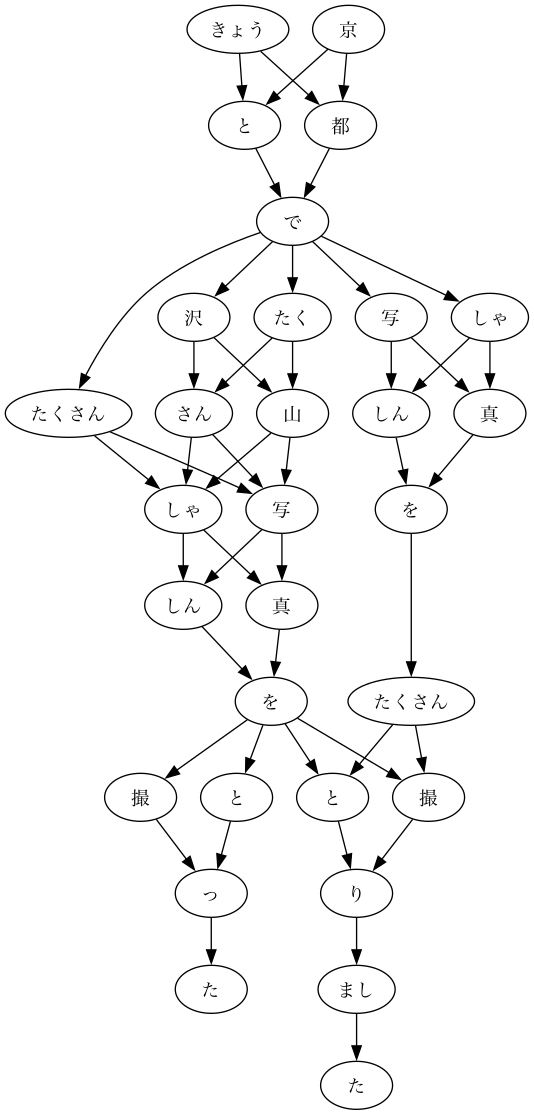
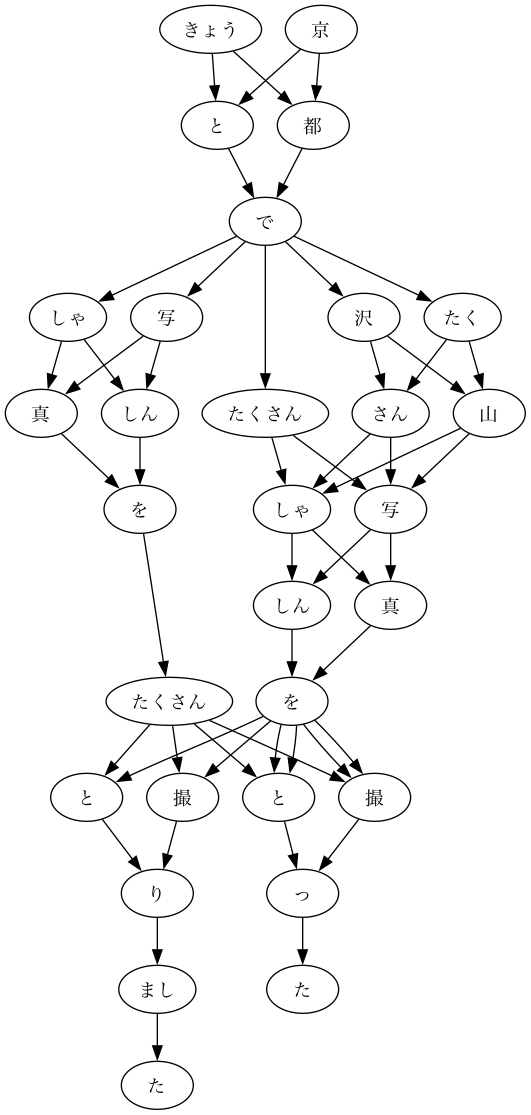
wip, but sibling graph construction fix in

diff --git a/index.ts b/index.ts
@@ -52,7 +52,6 @@ function parseSynonyms(
   const entryNumber = rawRubies.flatMap((str, idx) =>
     Array.from({ length: str.length }, () => idx)
   );
-
   for (const [source, dest] of Object.entries(sentence.synonyms ?? {})) {
     const starts = findOccurrences(rawRuby, source);
     if (starts.length === 0) {
@@ -67,10 +66,10 @@ function parseSynonyms(
       const endFuriganaIdx = entryNumber[end];
       // these are furigana indexes
 
-      let previousKeys: string[] =
-        startFuriganaIdx > 0
-          ? mainlineKeys(sentence, startFuriganaIdx - 1)
-          : [];
+      let previousKeys: string[] = mainlineKeys(
+        sentence,
+        startFuriganaIdx
+      ).flatMap((key) => keyToPrev[key] ?? []);
       for (const [fidx, f] of dest.entries()) {
         previousKeys = insertFurigana({
           f,
@@ -80,6 +79,7 @@ function parseSynonyms(
           keyToPrev,
         });
       }
+      // outflow: mainline
       if (sentence.furigana[endFuriganaIdx + 1]) {
         for (const nextKey of mainlineKeys(sentence, endFuriganaIdx + 1)) {
           for (const prevKey of previousKeys) {
@@ -87,9 +87,25 @@ function parseSynonyms(
           }
         }
       }
+      // outflow: others
+      const mainlineOutflows = mainlineKeys(sentence, endFuriganaIdx);
+      const allOutflows = Object.entries(keyToPrev)
+        .filter(([, parents]) =>
+          mainlineOutflows.some((targetParent) =>
+            parents.includes(targetParent)
+          )
+        )
+        .map(([key]) => key);
+
+      for (const nextKey of allOutflows) {
+        for (const prevKey of previousKeys) {
+          insert(keyToPrev, nextKey, prevKey, DEDUPE_PLEASE);
+        }
+      }
     }
   }
 }
+const DEDUPE_PLEASE = true;
 
 function mainlineKeys(sentence: Sentence, currentIndex: number): string[] {
   if (currentIndex < 0 || currentIndex >= sentence.furigana.length) {

diff --git a/tests/graph.ts b/tests/graph.ts
@@ -1,7 +1,8 @@
 import test from "tape";
-import { type Sentence } from "../interfaces";
+import type { Chunk, Sentence } from "../interfaces";
 import { sentenceToGraph } from "..";
-import { findGreedyPath } from "../graphSearch";
+import { chunkInput, findGreedyPath } from "../graphSearch";
+import { demo } from "../demo";
 
 test("greedy search", (t) => {
   const fake: Sentence = {
@@ -41,5 +42,29 @@ test("hiragana normalization: return is same form as input even during backgroun
   const graph = sentenceToGraph(sentence);
   const input = "らーめんがタべたい";
   t.deepEqual(findGreedyPath(input, graph), [input]);
+  t.end();
+});
+
+test("chunking", (t) => {
+  const graph = sentenceToGraph(demo);
+
+  const arrEqual = (a: string[], b: string[]) =>
+    t.deepEqual(a.sort(), b.sort());
+  const allStatusOk = (v: Chunk[]) => v.every((o) => o.status === "ok");
+
+  let chunks = chunkInput("しゃしんたくさん", graph);
+  allStatusOk(chunks);
+  arrEqual(
+    chunks.map((o) => o.text),
+    ["しゃしん", "たくさん"]
+  );
+
+  chunks = chunkInput("しゃしんたくさんとった", graph);
+  allStatusOk(chunks);
+  arrEqual(
+    chunks.map((o) => o.text),
+    ["しゃしん", "たくさん", "とった"]
+  );
+
   t.end();
 });

diff --git a/demo.ts b/demo.ts
@@ -37,7 +37,7 @@ ${links.join("\n")}
 }`.replace(/\//g, "_");
 }
 
-const demo: Sentence = {
+export const demo: Sentence = {
   furigana: [
     [
       { ruby: "京", rt: "きょう" },
@@ -82,7 +82,31 @@ $ dot -Tpng ${outfile} > ${outfile}.png`);
 }
 
 if (module === require.main) {
-  sentenceToDot(demo, "demo.dot");
+  // sentenceToDot(demo, "demo.dot");
   const graph = sentenceToGraph(demo);
-  console.log(chunkInput("しゃしん田たくさんとった", graph));
+  // console.log(chunkInput("しゃしん田たくさんとった", graph));
+  console.log(chunkInput("たくさんとった", graph));
+
+  function aFollowsB(a: string, b: string): boolean {
+    return graph.textToKeys[a]
+      .flatMap((o) => graph.keyToNext[o])
+      .map((key) => graph.keyToText[key])
+      .includes(b);
+  }
+
+  console.log(
+    aFollowsB("たくさん", "と"),
+    aFollowsB("と", "っ"),
+    aFollowsB("っ", "た")
+  );
+
+  // sentenceToDot(
+  //   {
+  //     english: [""],
+  //     citation: "",
+  //     furigana: "abcd".split(""),
+  //     synonyms: { bc: "xyz".split(""), d: ["e"], c: ["CcC"], a: ["AAA"] },
+  //   },
+  //   "fake.dot"
+  // );
 }

diff --git a/graphSearch.ts b/graphSearch.ts
@@ -1,4 +1,4 @@
-import { type Graph } from "./interfaces";
+import { Chunk, type Graph } from "./interfaces";
 import { kata2hira } from "./kana";
 import { longest, max } from "./utils";
 
@@ -36,7 +36,6 @@ function followGreedy(input: string, startKey: string, graph: Graph): string {
     keyToNext[startKey]?.filter((key) =>
       inputHiragana.startsWith(headHiragana + kata2hira(keyToText[key]))
     ) ?? [];
-
   const headAsInput = input.slice(0, head.length);
 
   // base case (2) end of graph
@@ -46,8 +45,8 @@ function followGreedy(input: string, startKey: string, graph: Graph): string {
   return headAsInput + followGreedy(input.slice(head.length), bestKey, graph);
 }
 
-export function chunkInput(input: string, graph: Graph) {
-  const chunks: { text: string; status: "unknown" | "ok" }[] = [];
+export function chunkInput(input: string, graph: Graph): Chunk[] {
+  const chunks: Chunk[] = [];
   let rest = input;
   while (rest) {
     const hits = findGreedyPath(rest, graph);

diff --git a/tests/basic.ts b/tests/basic.ts
@@ -131,3 +131,19 @@ test("multiply-occurring synonym ok", (t) => {
 
   t.end();
 });
+
+test("multiple synonyms should link to each other", (t) => {
+  const sentence: Sentence = {
+    ...superfluous,
+    furigana: "abcd".split(""),
+    synonyms: { bc: "xyz".split(""), c: ["1"], d: ["e"] },
+  };
+  const { textToKeys, keyToPrev, keyToText } = sentenceToGraph(sentence);
+
+  const eParents = textToKeys.e
+    .flatMap((e) => keyToPrev[e].map((key) => keyToText[key]))
+    .sort();
+  t.deepEqual(eParents, ["1", "c", "z"].sort());
+
+  t.end();
+});

diff --git a/utils.ts b/utils.ts
@@ -1,10 +1,17 @@
 import type { Tree } from "./interfaces";
 
-export function insert(db: Tree, newKey: string, newVal: string): void {
+export function insert(
+  db: Tree,
+  newKey: string,
+  newVal: string,
+  dedupe = false
+): void {
   if (!(newKey in db)) {
     db[newKey] = [];
   }
-  db[newKey].push(newVal);
+  if (dedupe ? !db[newKey].includes(newVal) : true) {
+    db[newKey].push(newVal);
+  }
 }
 
 export function reverse(input: Tree): Tree {

diff --git a/interfaces.ts b/interfaces.ts
@@ -15,3 +15,8 @@ export interface Graph {
   keyToPrev: Tree;
   keyToText: Record<string, string>;
 }
+
+export interface Chunk {
+  text: string;
+  status: "unknown" | "ok";
+}
